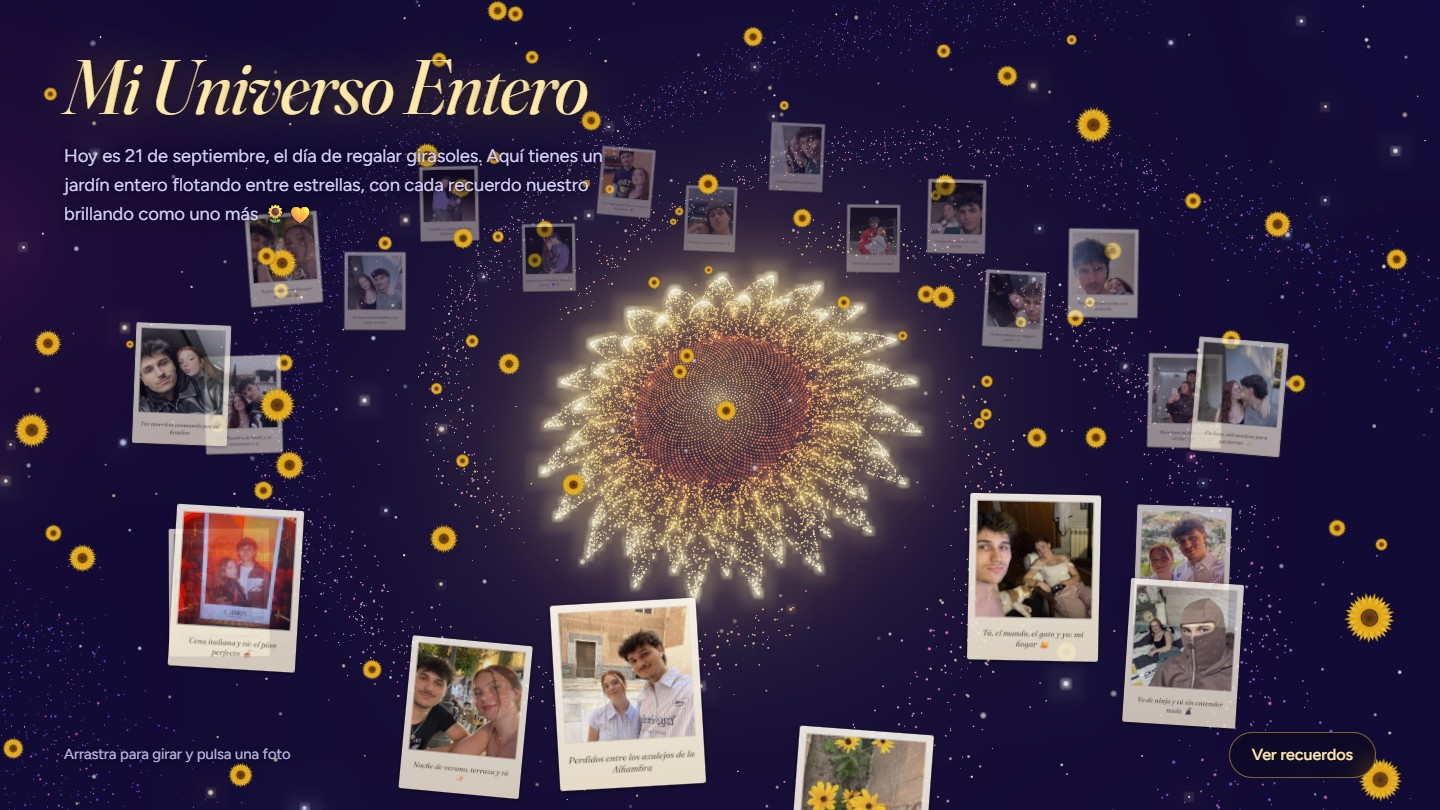
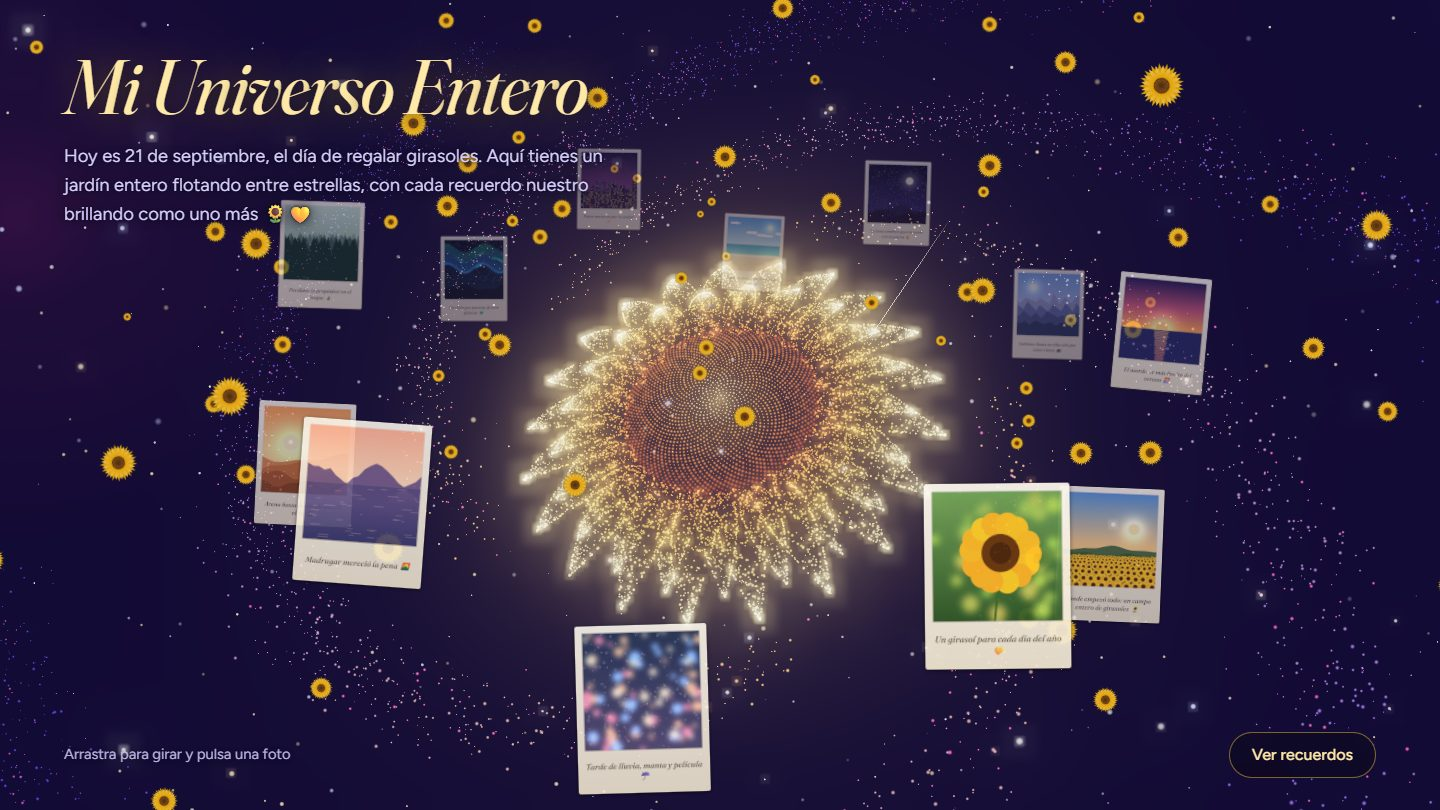
Capturas del README con la demo de fotos de ejemplo

diff --git a/demo/index.html b/demo/index.html
@@ -10,7 +10,7 @@
   <meta property="og:type" content="website">
   <meta property="og:title" content="Mi Universo Entero">
   <meta property="og:description" content="Una galaxia con forma de girasol para el 21 de septiembre.">
-  <meta property="og:image" content="https://alejandronicolasdelalamo.github.io/21-de-septiembre/docs/portada-demo.jpg">
+  <meta property="og:image" content="https://alejandronicolasdelalamo.github.io/21-de-septiembre/docs/portada.jpg">
   <link rel="icon" href="../assets/favicon.svg" type="image/svg+xml">
 
   <link rel="preconnect" href="https://fonts.googleapis.com">

diff --git a/README.md b/README.md
@@ -16,7 +16,7 @@ Escena 3D interactiva con Three.js, sin paso de compilación.
 ![CSS3](https://img.shields.io/badge/CSS3-1572B6?logo=css3&logoColor=white)
 ![License](https://img.shields.io/badge/license-MIT-green)
 
-<img src="docs/portada.jpg" alt="La galaxia-girasol con las fotos en órbita a su alrededor" width="880" />
+<img src="docs/portada.jpg" alt="La galaxia-girasol con las fotos en órbita a su alrededor (capturas de la demo con fotos de ejemplo)" width="880" />
 
 **[Ver la demo](https://alejandronicolasdelalamo.github.io/21-de-septiembre/)** · **[Ver la demo con fotos de ejemplo](https://alejandronicolasdelalamo.github.io/21-de-septiembre/demo/)**
 
